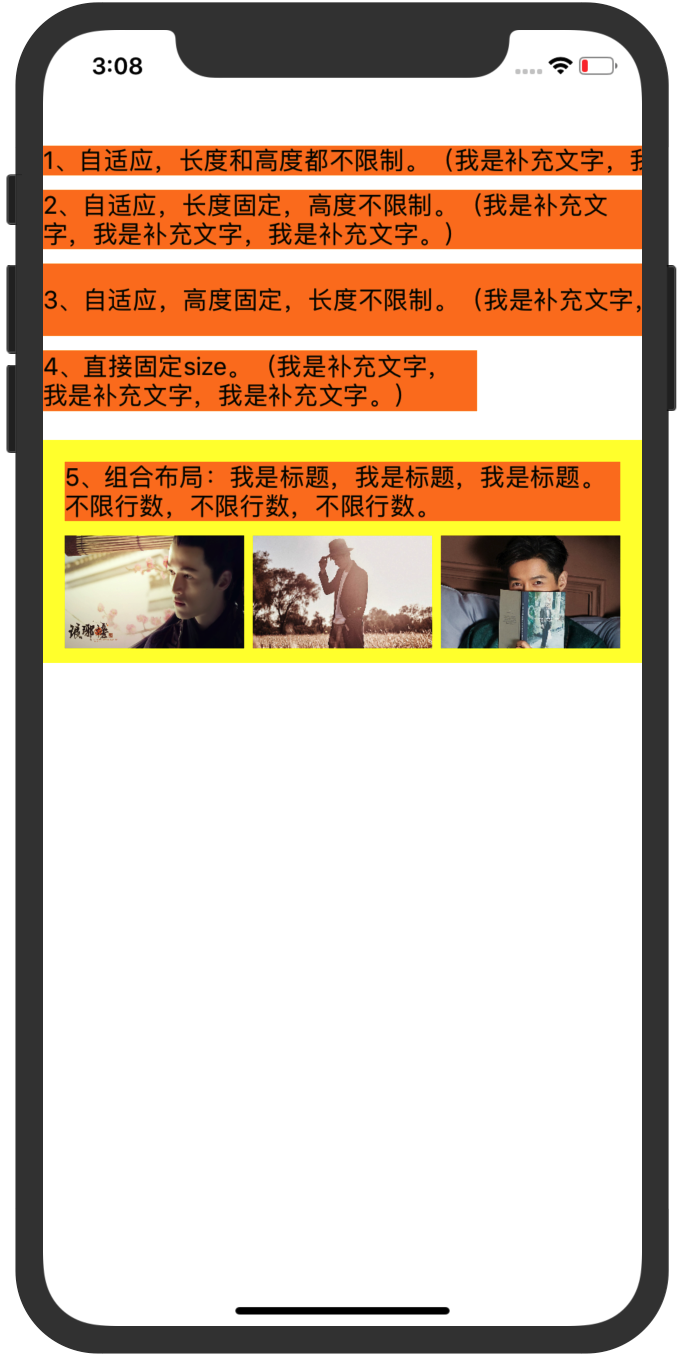
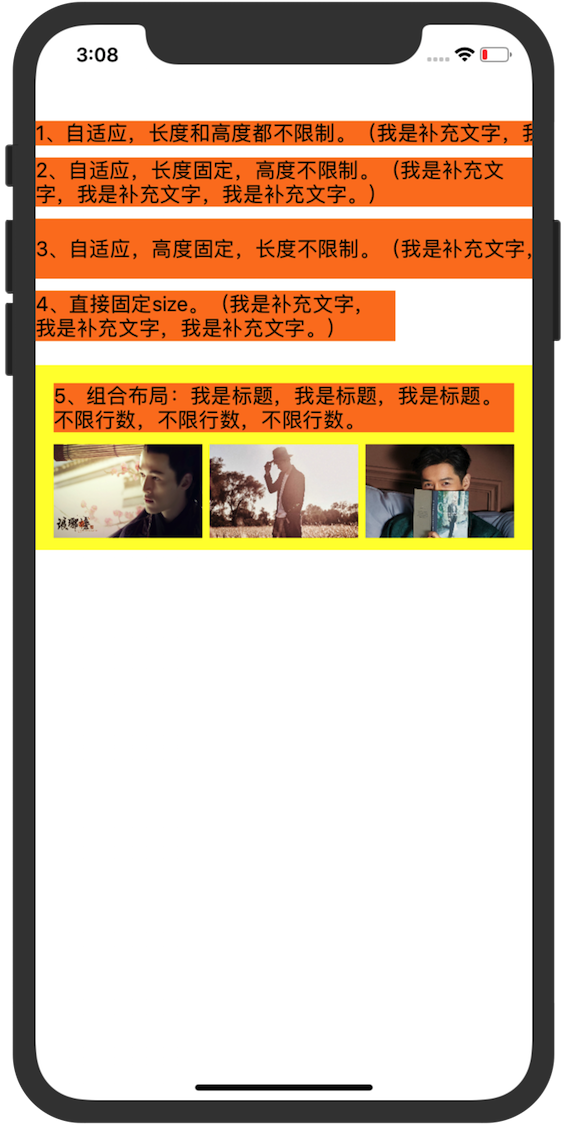
优化

diff --git a/QNYGKit/ViewController.m b/QNYGKit/ViewController.m
@@ -9,6 +9,7 @@
 #import "ViewController.h"
 #import "QNFeedView.h"
 #import "QNFlexBoxLayout.h"
+#import "UIView+ZJ.h"
 
 @interface ViewController ()
 @property(nonatomic, strong) UILabel *testlabel;
@@ -63,37 +64,35 @@
     labelTitle.text = @"5、组合布局：我是标题，我是标题，我是标题。不限行数，不限行数，不限行数。";
     labelTitle.backgroundColor = [UIColor orangeColor];
     [labelTitle qn_makeLayout:^(QNLayout *layout) {
-        layout.wrapContent();
+        layout.wrapContent();   // 自适应大小
         layout.margin.equalToEdgeInsets(UIEdgeInsetsMake(0, 0, 10, 0));
     }];
     
-    QNLayoutDiv *imageDiv = [QNLayoutDiv  linerLayoutDiv];
+    QNLayoutDiv *imageDiv = [QNLayoutDiv linerLayoutDiv];
     UIImageView *imageViewA = [[UIImageView alloc] initWithFrame:CGRectMake(0, 0, 124, 78)];
-    imageViewA.backgroundColor = [UIColor blueColor];
     imageViewA.image = [UIImage imageNamed:@"moment_picA"];
     [imageViewA qn_makeLayout:^(QNLayout *layout) {
-        layout.wrapSize(); // 效果同下面imageViewB
+        layout.wrapSize(); // 固定大小，效果同下面imageViewB
     }];
     UIImageView *imageViewB = [[UIImageView alloc] initWithFrame:CGRectZero];
-    imageViewB.backgroundColor = [UIColor greenColor];
     imageViewB.image = [UIImage imageNamed:@"moment_picB"];
     [imageViewB qn_makeLayout:^(QNLayout *layout) {
         layout.size.equalToSize(CGSizeMake(124, 78));
     }];
     
     UIImageView *imageViewC = [[UIImageView alloc] initWithFrame:CGRectZero];
-    imageViewC.backgroundColor = [UIColor greenColor];
     imageViewC.image = [UIImage imageNamed:@"moment_picC"];
     [imageViewC qn_makeLayout:^(QNLayout *layout) {
         layout.size.equalToSize(CGSizeMake(124, 78));
     }];
     [imageDiv qn_makeLayout:^(QNLayout *layout) {
-        layout.flexDirection.equalTo(@(QNFlexDirectionRow)); layout.justifyContent.equalTo(@(QNJustifySpaceBetween));
-        layout.children(@[imageViewA, imageViewB, imageViewC]);
+        layout.flexDirection.equalTo(@(QNFlexDirectionRow));    // 水平布局
+        layout.justifyContent.equalTo(@(QNJustifySpaceBetween));    // 分散排列，平分间距
+        layout.children(@[imageViewA, imageViewB, imageViewC]); // 设置子view
     }];
     
     [mView qn_makeLayout:^(QNLayout *layout) {
-        layout.flexDirection.equalTo(@(QNFlexDirectionColumn));
+        layout.flexDirection.equalTo(@(QNFlexDirectionColumn)); // 垂直布局
         layout.padding.equalToEdgeInsets(UIEdgeInsetsMake(15, 15, 10, 15));
         layout.children(@[labelTitle, imageDiv]);
     }];
@@ -105,117 +104,6 @@
     [bgView addSubview:mView];
     [mView qn_layoutWithFixedWidth];
     mView.top = labelD.bottom + 20;
-    
-    // Do any additional setup after loading the view, typically from a nib.
-    /*
-    NSString *dataFilePath = [[NSBundle mainBundle] pathForResource:@"data" ofType:@"json"];
-    NSData *data = [NSData dataWithContentsOfFile:dataFilePath];
-    NSDictionary *rootDict = [NSJSONSerialization JSONObjectWithData:data options:NSJSONReadingAllowFragments error:nil];
-    NSArray *feedDicts = rootDict[@"feed"];
-    
-    NSMutableArray *feeds = @[].mutableCopy;
-    
-    [feedDicts enumerateObjectsUsingBlock:^(id obj, NSUInteger idx, BOOL *stop) {
-        [feeds addObject:[[QNFeedModel alloc] initWithDictionary:obj]];
-    }];
-    
-    QNFeedModel *feedModel = [feeds objectAtIndex:0];
-    QNFeedView *feedView = [QNFeedView defaultFeedView];
-//    [feedView applyModel:feedModel];
-    QNViewModelItem *viewModelItem = [QNFeedViewModel getViewModelItemWithModel:feedModel];
-    [feedView applyViewModelItem:viewModelItem];
-    feedView.frame = CGRectMake(0, 64, feedView.frame.size.width, feedView.frame.size.height);
-    feedView.backgroundColor = [UIColor orangeColor];
-    [self.view addSubview:feedView];
-    
-    dispatch_after(dispatch_time(DISPATCH_TIME_NOW, (int64_t)(5 * NSEC_PER_SEC)), dispatch_get_main_queue(), ^{
-        QNFeedModel *feedModel = [feeds objectAtIndex:1];
-        QNViewModelItem *viewModelItem = [QNFeedViewModel getViewModelItemWithModel:feedModel];
-        [feedView applyViewModelItem:viewModelItem];
-        feedView.frame = CGRectMake(0, 64, feedView.frame.size.width, feedView.frame.size.height);
-        feedView.backgroundColor = [UIColor orangeColor];
-        [self.view addSubview:feedView];
-    });
-    */
-    
-    /*
-    UILabel *label = [[UILabel alloc] initWithFrame:CGRectZero];
-    [label qn_makeLayout:^(QNLayout *layout) {
-        layout.wrapContent();
-        layout.margin.equalToEdgeInsets(UIEdgeInsetsMake(0, 0, 0, 10));
-    }];
-    label.text = @"hello world";
-    label.backgroundColor = [UIColor grayColor];
-    label.textColor = [UIColor orangeColor];
-//    [label qn_applyLayoutWithFixedWidth];
-//    label.frame = CGRectMake(10, 164, label.frame.size.width, label.frame.size.height);
-//    [self.view addSubview:label];
-    
-    UIImageView *imageView = [[UIImageView alloc] initWithFrame:CGRectMake(0, 0, 100, 60)];
-    imageView.backgroundColor = [UIColor greenColor];
-//    [imageView qn_markAllowLayout];
-//    [imageView qn_makeLayout:^(QNLayout *layout) {
-//        layout.width.height.equalTo(@(100));
-//    }];
-    
-    UIView *view = [[UIView alloc] initWithFrame:CGRectMake(0, 64, 414, 0)];
-    [view qn_makeLayout:^(QNLayout *layout) {
-        layout.flexDirection.equalTo(@(QNFlexDirectionColumn));
-        layout.children(@[label, imageView]);
-    }];
-    [view addSubview:imageView];
-    [view addSubview:label];
-    view.backgroundColor = [UIColor purpleColor];
-    [view qn_applyLayoutWithFixedWidth];
-    QNLayoutCache *cache = [view.qn_layout layoutCache];
-    view.frame = CGRectMake(0, 164, view.frame.size.width, view.frame.size.height);
-    [self.view addSubview:view];
-     */
-    
-    /*
-    self.testlabel = [[UILabel alloc] initWithFrame:CGRectMake(0, 0, 414,100)];
-    self.testlabel.backgroundColor = [UIColor orangeColor];
-    self.testlabel.text = @"Hello world, hello world, hello world,Hello world, hello world, hello world,Hello world, hello world, hello world";
-    self.testlabel.font = [UIFont fontWithName: @"Zapfino" size: 15];
-//    [self.testlabel sizeToFit];
-//    [self.testlabel qn_markAllowLayout];
-    [self.testlabel qn_makeLayout:^(QNLayout *layout) {
-        layout.wrapContent();
-//        layout.width.equalTo(@(120));
-    }];
-//    [self.testlabel qn_applyLayouWithSize:CGSizeMake(300, 100)];
-    self.testlabel.numberOfLines = 0;
-    [self.testlabel qn_layoutWithFixedWidth];
-    [self.view addSubview:self.testlabel];
-    self.testlabel.frame = CGRectMake(0, 120, self.testlabel.frame.size.width, self.testlabel.frame.size.height);
-    
-    QNLayoutFixedSizeDiv *fixDiv = [QNLayoutFixedSizeDiv layoutFixedSizeDivWithFixedSize:CGSizeMake(100, 100)];
-//    [fixDiv qn_applyLayouWithSize:qn_undefinedSize];
-    NSLog(@"");
-    
-    NSMutableParagraphStyle *parag = [[NSMutableParagraphStyle alloc] init];
-    
-    NSDictionary *attrDict = @{NSFontAttributeName:[UIFont fontWithName: @"Zapfino" size: 15],
-                               NSForegroundColorAttributeName:[UIColor blueColor]};
-    NSMutableAttributedString *mAttributedString = [[NSMutableAttributedString alloc] initWithString:@"Hello world, hello world, hello world,Hello world, hello world, hello world,Hello world, hello world, hello world" attributes:attrDict];
-    
-    QNLayoutStrDiv *strDiv = [QNLayoutStrDiv layoutStrDivWithCalAttributedStr:[mAttributedString copy]];
-    [strDiv qn_makeLayout:^(QNLayout *layout) {
-        layout.margin.equalToEdgeInsets(UIEdgeInsetsMake(10, 0, 10, 0));
-    }];
-//    [strDiv qn_applyLayouWithSize:CGSizeMake(220, qn_undefined)];
-    NSLog(@"");
-//    self.testlabel.attributedText = [mAttributedString copy];
-    
-    QNLayoutDiv *mainDiv = [QNLayoutDiv verticalLayoutDiv];
-    
-    [mainDiv qn_makeLayout:^(QNLayout *layout) {
-        layout.wrapContent();
-        layout.children(@[strDiv, fixDiv]);
-    }];
-    [mainDiv qn_layouWithSize:CGSizeMake(414, 100)];
-    NSLog(@"");
-     */
 }
 
 

diff --git a/QNYGKit/QNFlexBoxLayout/QNFlexBoxLayout.h b/QNYGKit/QNFlexBoxLayout/QNFlexBoxLayout.h
@@ -13,6 +13,5 @@
 #import "QNLayoutDiv.h"
 #import "QNLayoutProtocol.h"
 #import "UIView+QNLayout.h"
-#import "UIView+ZJ.h"
 
 #endif /* QNFlexBoxLayout_h */
